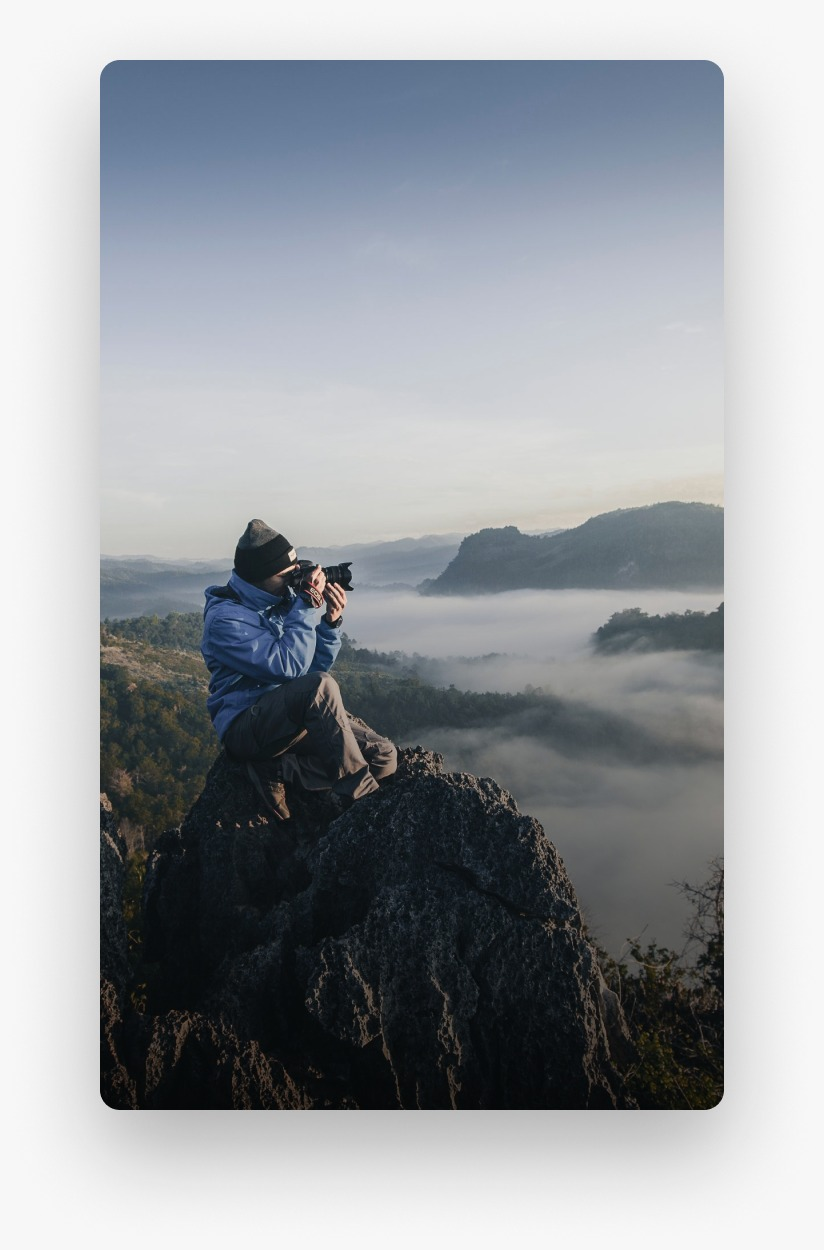
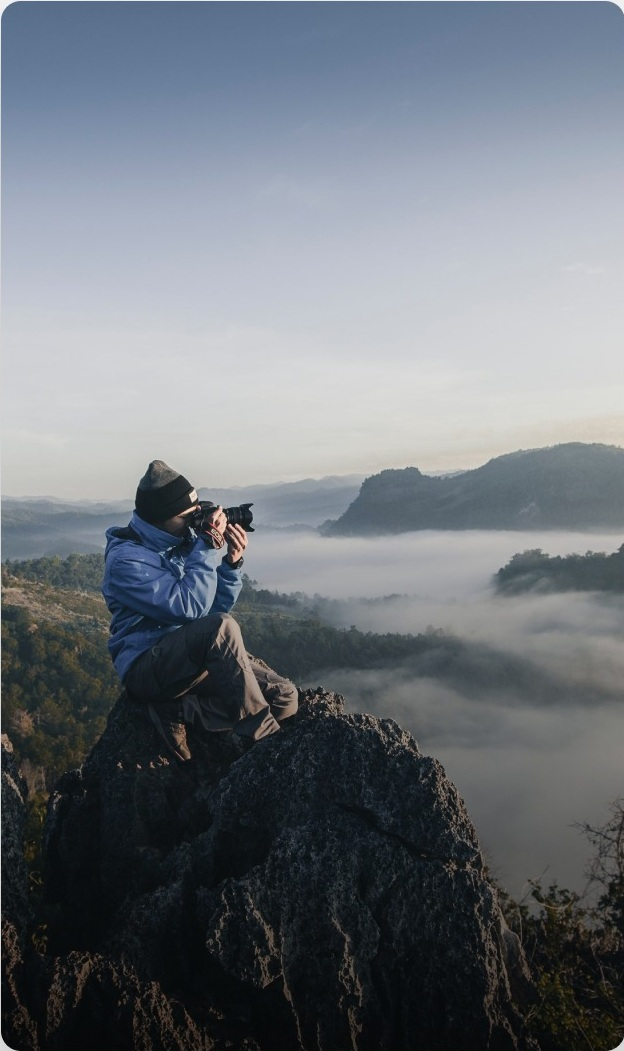
Update Hero Section

diff --git a/src/components/home/HeroSection.jsx b/src/components/home/HeroSection.jsx
@@ -38,6 +38,16 @@ export default function HeroSection({ onSignupClick }) {
         return () => clearInterval(interval)
     }, [isPaused, cards.length])
 
+    // Mouse wheel scroll handler
+    const handleWheel = (e) => {
+        e.preventDefault()
+        if (e.deltaY > 0) {
+            next()
+        } else if (e.deltaY < 0) {
+            prev()
+        }
+    }
+
     return (
         <div className="min-h-[600px] lg:min-h-[700px] flex flex-col bg-cover bg-center text-white px-4 sm:px-8 lg:px-20 pb-20 box-border relative"
             style={{
@@ -97,6 +107,7 @@ export default function HeroSection({ onSignupClick }) {
                         className="hidden md:flex gap-6 overflow-visible pb-16 items-end pl-4"
                         onMouseEnter={() => setIsPaused(true)}
                         onMouseLeave={() => setIsPaused(false)}
+                        onWheel={handleWheel}
                     >
                         {visibleOrder.map((cardIdx, index) => (
                             <div key={`${cardIdx}-${idx}`} className="relative group">
@@ -106,14 +117,15 @@ export default function HeroSection({ onSignupClick }) {
                                 </div>
 
                                 <div
-                                    className={`relative rounded-2xl overflow-hidden shadow-2xl text-white flex-shrink-0 transition-all duration-500 z-10 ${index === 0
+                                    className={`relative rounded-2xl overflow-hidden shadow-lg shadow-black/50 bg-gray-900 text-white flex-shrink-0 transition-all duration-500 z-10 border-none ring-0 ${index === 0
                                         ? 'w-[260px] h-[400px]'
                                         : 'w-[240px] h-[280px] opacity-90'
                                         }`}
                                 >
-                                    <div
-                                        className="w-full h-full bg-cover bg-center"
-                                        style={{ backgroundImage: `url(${cards[cardIdx]})` }}
+                                    <img
+                                        src={cards[cardIdx]}
+                                        alt="Lorem Ipsum"
+                                        className="absolute inset-0 w-full h-full object-cover block m-0 p-0 border-none"
                                     />
                                     <div className="absolute bottom-0 left-0 w-full p-5 bg-gradient-to-t from-black/90 via-black/50 to-transparent">
                                         <div className="flex justify-between items-end">
@@ -137,6 +149,12 @@ export default function HeroSection({ onSignupClick }) {
                     {/* Navigation controls */}
                     <div className="hidden md:flex items-center gap-3 absolute bottom-0 left-0">
                         <span className="text-sm font-medium text-white/90">Prev / Next</span>
+                        <button
+                            onClick={prev}
+                            className="w-10 h-10 rounded-full bg-white/20 hover:bg-white/30 flex items-center justify-center transition-all backdrop-blur-sm border border-white/20"
+                        >
+                            <FiChevronRight size={18} className="rotate-180" />
+                        </button>
                         <button
                             onClick={next}
                             className="w-10 h-10 rounded-full bg-white/20 hover:bg-white/30 flex items-center justify-center transition-all backdrop-blur-sm border border-white/20"
